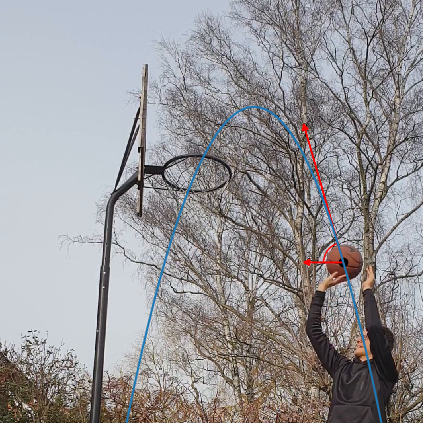
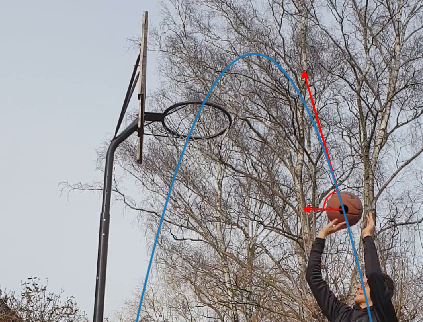
Rescaled the images and added more information on the Schrödinger equation

diff --git a/index.html b/index.html
@@ -36,16 +36,56 @@
   </header>
 <br>
 
+  		<!-- Modals == PopUp Windows-->
+
+  		<!-- SchrodingerModal -->
+  		<div class="modal fade bd-example-modal-lg" id="schrodingerModal" tabindex="-1" role="dialog" aria-labelledby="schrodingerModalTitle" aria-hidden="true">
+			<div class="modal-dialog modal-lg" role="document">
+	  			<div class="modal-content">
+					<div class="modal-header">
+		  				<h5 class="modal-title" id="exampleModalLongTitle">Solving the Schrödinger Equation with deal.ii</h5>
+		  				<button type="button" class="close" data-dismiss="modal" aria-label="Close">
+							<span aria-hidden="true">&times;</span>
+		  				</button>
+					</div>
+					<div class="modal-body">
+						<b>authors:</b> &nbsp;&nbsp; Leon Samolik, Max Schröder, Julian Roth <br>
+						<br>
+						This group project is the result of a lecture on programming finite elements in C++
+						held at the Leibniz Universität Hannover in the winter semester 2019/20. We decided to simulate the quantum harmonic oscillator numerically.
+						For that purpose, we discretized the Schrödinger equation with the harmonic oscillator as the potential, i.e. <br>
+						<center><img src="img/schrodinger.svg"  style="padding-left:10%; padding-right:10%;"></center> <br>
+						To apply the finite element method, we discretized the time derivative with the one step θ-scheme. The resulting equation
+						was split into its real and imaginary part and then transformed into a weak form by multiplication with a test function and integration by parts.
+						In a 2D setting a direct solver, like the LU decomposition, turned out to be sufficient to solver our linear equation system.
+						Additionally, the inverse only needed to be calculated once, since the system matrix remained constant throughout time.
+						Due to the fact that we decided to use Dirichlet boundary conditions instead of periodic boundary conditions, our simulation
+						always converged against the same eigenstate, even when other parameters where changed slightly.
+						<br> <br>
+						In the animation below we started with a normal distribution as our initial condition 
+						and applied inhomogeneous Dirichlet conditions, which were close to zero. <br><br>
+						<center><img src="img/schrodinger.gif" alt=”Schrodinger GIF” style="width: 90%;"></center>
+						<br>
+						For more results and a more detailed documentation of our project please check out <a href="https://github.com/mfschroeder/Programming_FE_Cpp#">the project's GitHub page</a>.
+					</div>
+					<div class="modal-footer">
+		  				<button type="button" class="btn btn-secondary" data-dismiss="modal">Close</button>
+		  				<a href="https://github.com/mfschroeder/Programming_FE_Cpp#" class="btn btn-primary">Go to project</a>
+					</div>
+	  			</div>
+			</div>
+  		</div>
+
 
 		<div class="container-fluid bg-1 text-center">
     		<div class="blurb">
 				<center><p>I'm a college student majoring in mathematics who is interested in numerical analysis and data science. <a href="/about">Read more about me...</a></p></center>
 			</div><!-- /.blurb -->
 			
-			<h2>Projects</h2>
+			<h1>Projects</h1>
 			<hr style="width:80%;">
 
-			<h3>Numerical Analysis</h3>
+			<h2>Numerical Analysis</h2>
 
 			<!-- container/NumericalAnalysis-->
 			<div class="container">
@@ -58,7 +98,11 @@
 							<img class="card-img-top" src="img/schrodinger.svg"  style="padding-left:10%; padding-right:10%;">
 							<div class="card-body">
 								<h4 clacss="card-title">Schrödinger equation</h4>
-						  		<p class="card-text">Simulating the Quantum Harmonic Oscillator though the FEM in deal.ii.</p>
+								<p class="card-text">Simulating the Quantum Harmonic Oscillator though the FEM in deal.ii.</p>
+								<!-- Button trigger modal -->
+								<button type="button" class="btn btn-primary" data-toggle="modal" data-target="#schrodingerModal">
+									More info
+  								</button>
 						  		<a href="https://github.com/mfschroeder/Programming_FE_Cpp#" class="btn btn-primary">Go to project</a>
 							</div>
 					  	</div>
@@ -81,7 +125,7 @@
 				  </div>
 			</div>
 		
-			<h3>Data Science</h3>
+			<h2>Data Science</h2>
 
 			<!-- container/DataScience-->
 			<div class="container">
@@ -112,7 +156,7 @@
 					  	</div>
 					</div>
 					
-				  </div>
+				</div>
 
 				  <!-- second row-->
 				<div class="row">
@@ -120,7 +164,7 @@
 					<!-- first project-->
 					<div class="col-md">
 						<div class="card bg-light mb-3">
-							<img class="card-img-top" src="img/four_in_row.png">
+							<img class="card-img-top" src="img/four_in_row_rescaled.png">
 							<div class="card-body">
 								<h4 class="card-title">Four In A Row</h4>
 						  		<p class="card-text">A Java version of the game "Four In A Row". Implemented Minimax, Alpha-beta pruning and NEAT.</p>
